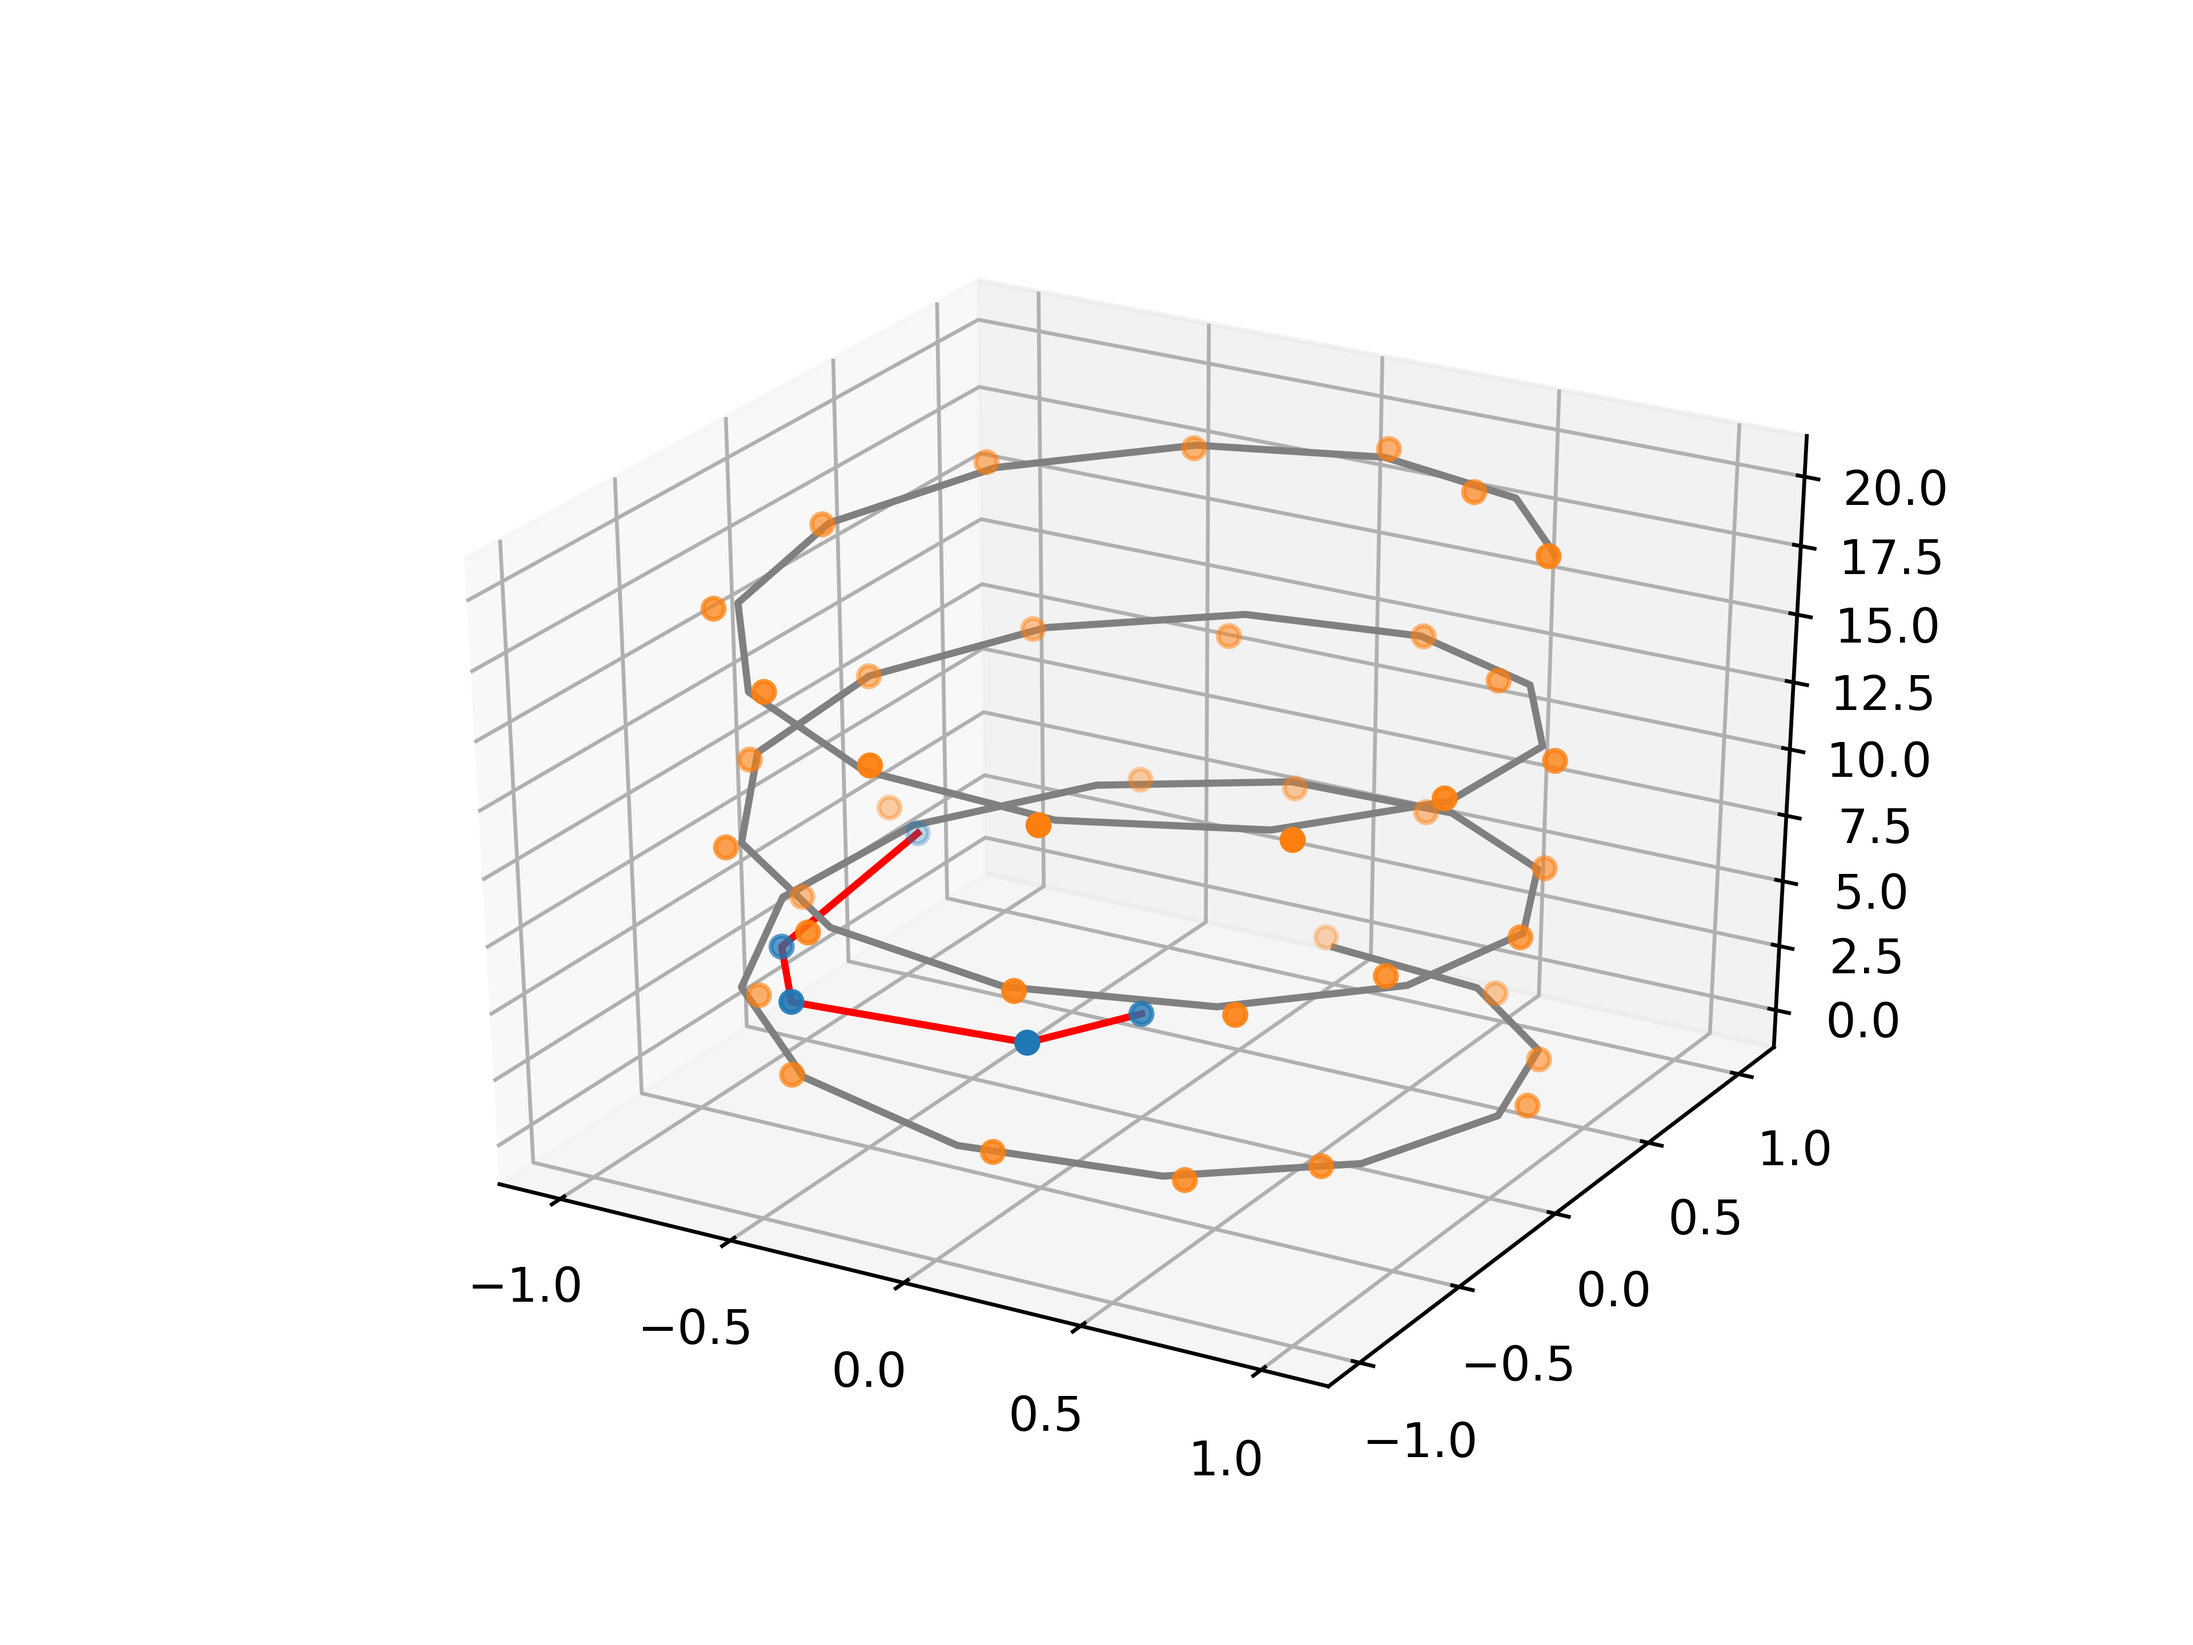
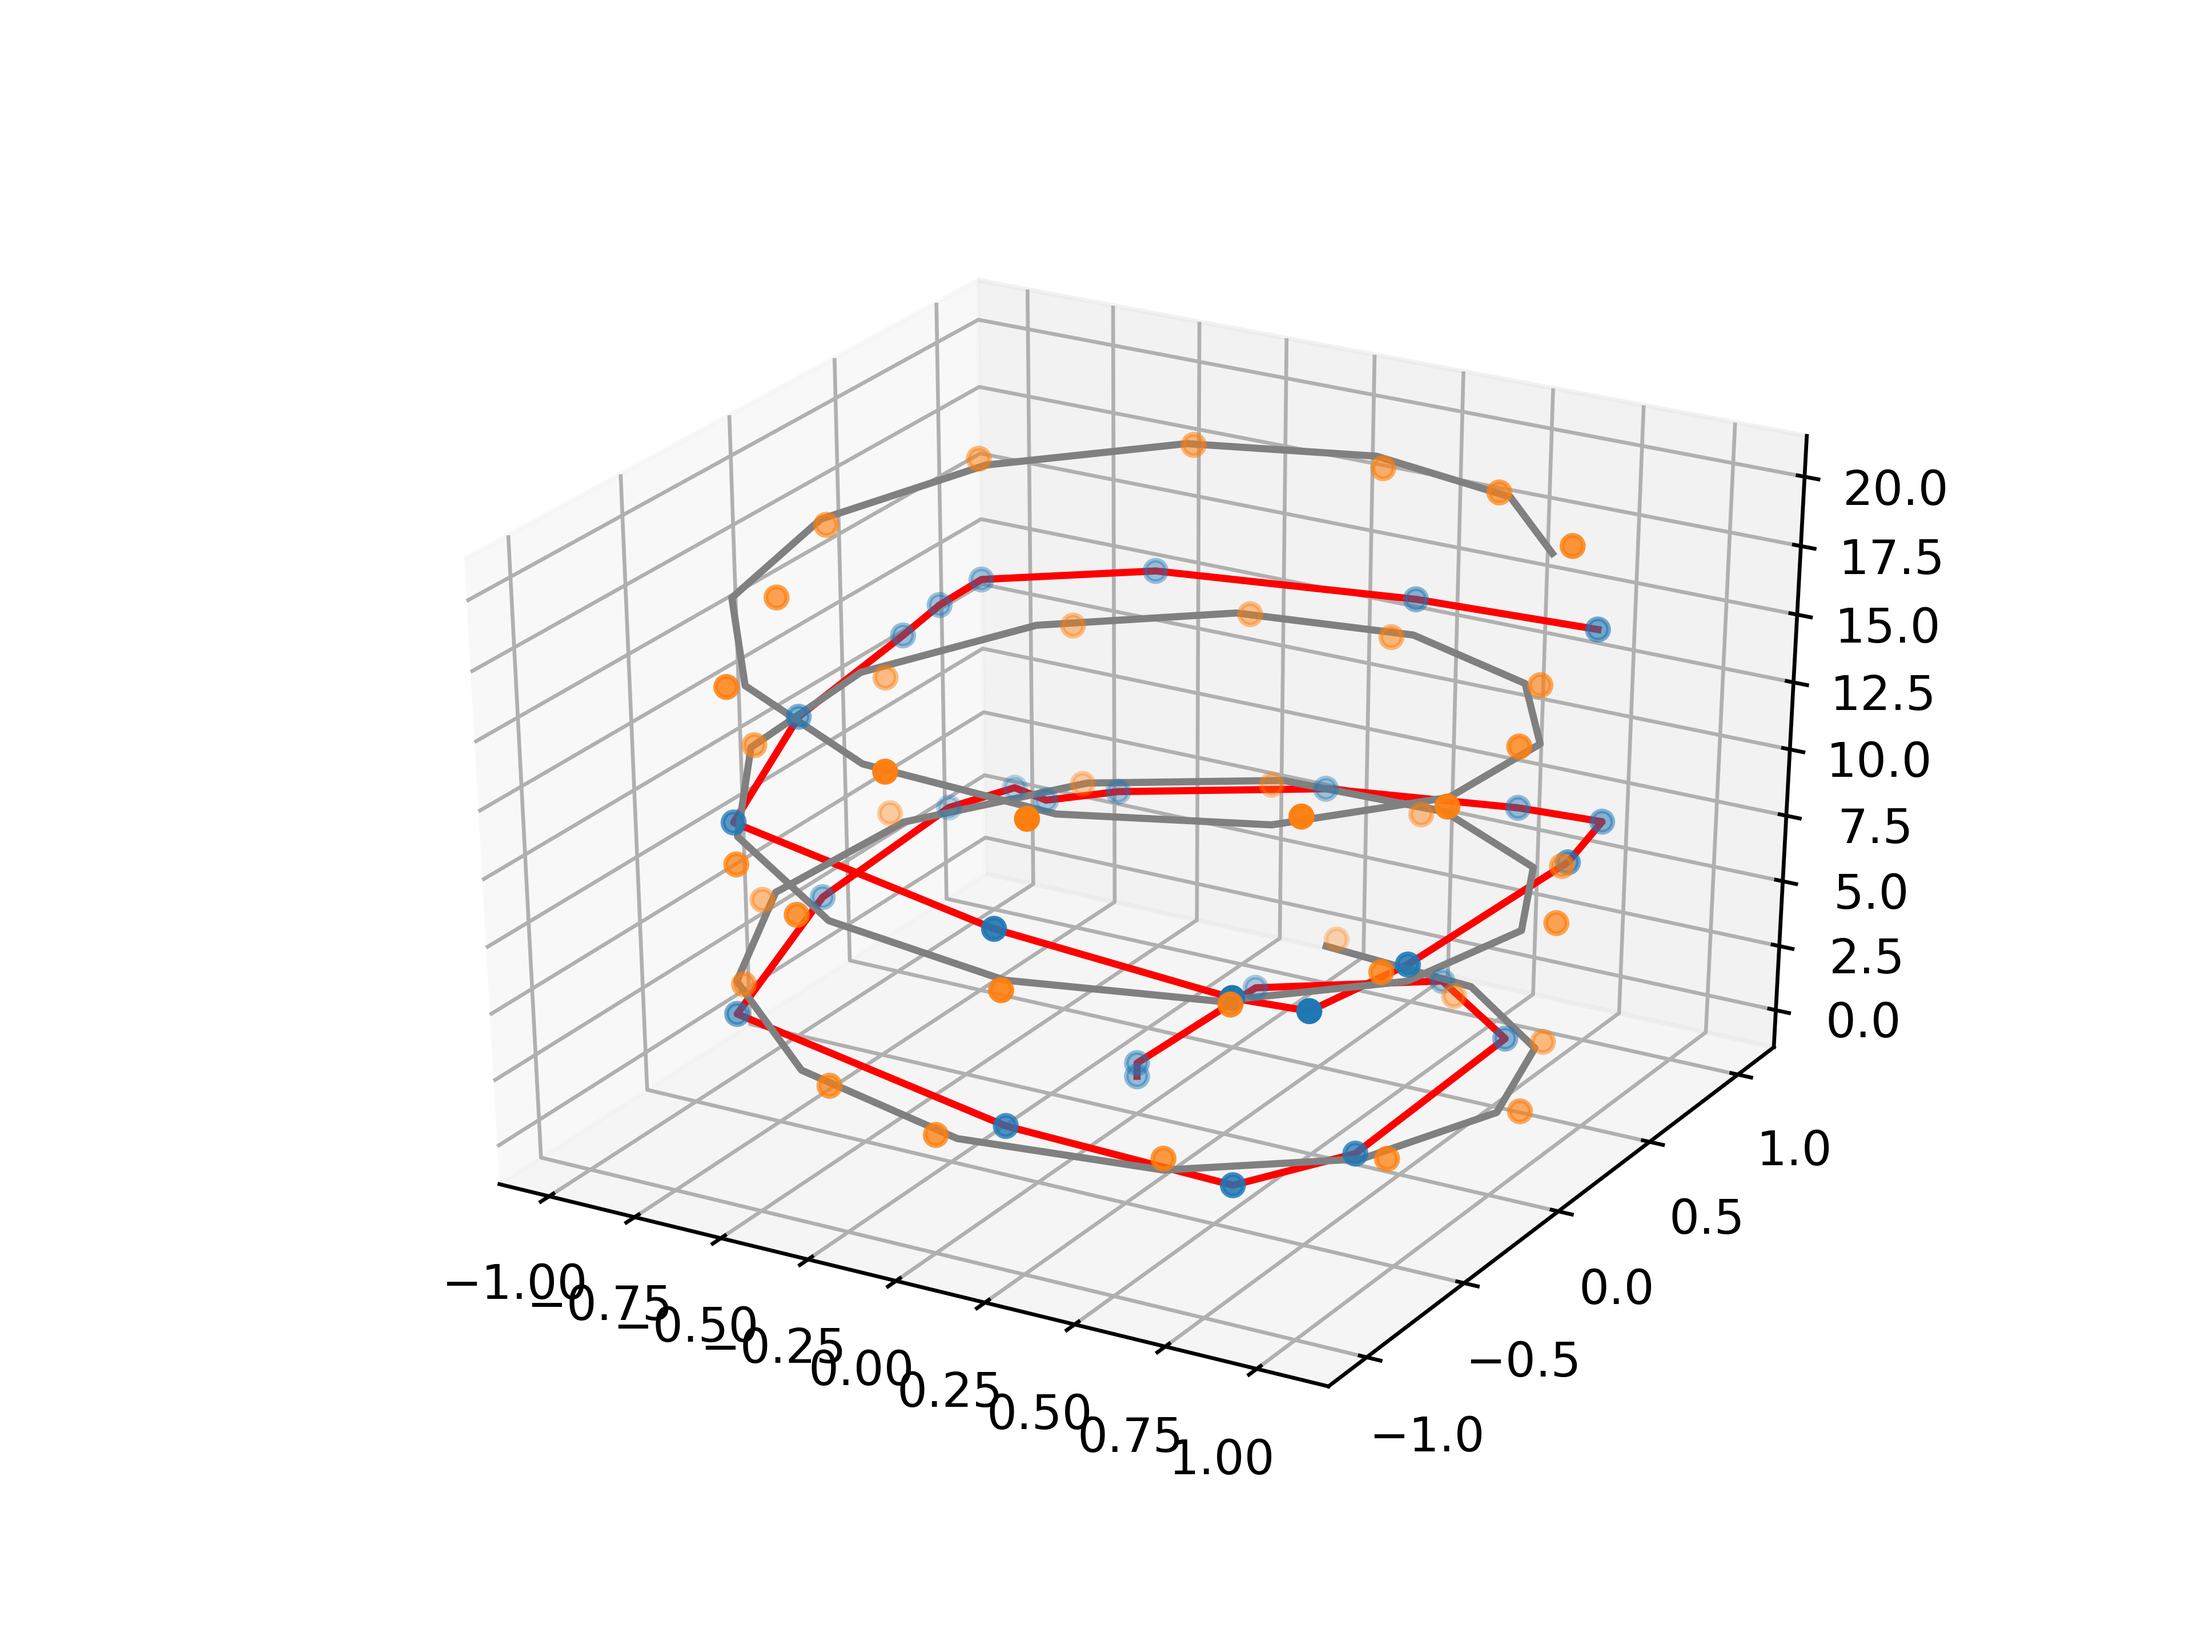
Created New Crossbar GRU Class

diff --git a/utils/spiral_generator.py b/utils/spiral_generator.py
@@ -1,6 +1,7 @@
 
 import torch
 
+import random
 import numpy as np
 import matplotlib.pyplot as plt
 
@@ -17,6 +18,7 @@ class Epoch_Spiral_Generator():
         self.train_window = train_window
         self.dimension = dimension
 
+        # Generate spiral
         self.x = torch.linspace(0, depth, n_pts).reshape(1, -1)
 
         self.y_x = (torch.sin(self.x) + 0.05 * np.random.randn(n_pts)).float()
@@ -28,17 +30,32 @@ class Epoch_Spiral_Generator():
         self.true_x = torch.sin(self.true_z).float()
         self.true_y = torch.cos(self.true_z).float()
 
-        self.data = [((self.y[:, i:i+train_window].reshape(-1, dimension, 1), self.x[:, i:i+train_window].reshape(-1, 1, 1)), (self.y[:, i+train_window:i+train_window+5].reshape(dimension, -1))) for i in range(self.y.size(1) - train_window)]
+        self.data = [((self.y[:, i:i+train_window].reshape(-1, dimension, 1), self.x[:, i:i+train_window].reshape(-1, 1, 1)), (self.y[:, i+train_window:i+train_window+10].reshape(dimension, -1))) for i in range(self.y.size(1) - train_window)]
         
         self.train_data = self.data[:cutoff]
         self.test_start = self.data[0]
+        self.test_data = [((self.y[:, i:i+30].reshape(-1, dimension, 1), self.x[:, i:i+30].reshape(-1, 1, 1)), (self.y[:, i+30:i+31].reshape(dimension, -1))) for i in range(self.y.size(1) - 30)]
 
-    def plot(self):
+class Stochastic_Spiral_Generator():
 
-        ax = plt.axes(projection='3d')
-        ax.plot3D(self.data[0][0, :].squeeze(), self.data[1, :].squeeze(), self.x, 'red')
+    def __init__(self, n_pts, cutoff, depth, train_window, dimension):
 
-        plt.show()
+        # Store instance variables
+        self.n_pts = n_pts
+        self.cutoff = cutoff
+        self.depth = depth
+        self.train_window = train_window
+        self.dimension = dimension
+
+        # Generate spiral
+        self.x = torch.linspace(0, depth, n_pts).reshape(1, -1)
+
+        self.y_x = (torch.sin(self.x) + 0.2 * np.random.randn(n_pts)).float()
+        self.y_y = (torch.cos(self.x) + 0.2 * np.random.randn(n_pts)).float()
+
+        self.y = torch.cat((self.y_x, self.y_y), axis=0)
+        
+        self.data = [((self.y[:, i:i+train_window].reshape(-1, dimension, 1), self.x[:, i:i+train_window].reshape(-1, 1, 1)), (self.y[:, i+train_window:i+train_window+10].reshape(dimension, -1))) for i in range(self.y.size(1) - train_window)]
 
 class Regular_Spiral_Generator():
 

diff --git a/fig6.py b/fig6.py
@@ -14,6 +14,7 @@ from torchdiffeq import odeint
 from crossbar.crossbar import crossbar
 
 from utils.spiral_generator import Epoch_Spiral_Generator
+from utils.spiral_generator import Stochastic_Spiral_Generator
 from utils.spiral_generator import Regular_Spiral_Generator
 
 from networks.ode import ODE_Func as ODE_Net
@@ -28,7 +29,7 @@ from networks.latent_ode import train as ode_rnn_test_train
 from networks.lstm_rnn import LSTM_RNN as LSTM_RNN
 from networks.lstm_rnn import train as lstm_train
 
-# Device parameters for convenience        
+# Device parameters for convenience     
 device_params = {"Vdd": 0.2,
                  "r_wl": 20,
                  "r_bl": 20,
@@ -57,17 +58,28 @@ device_params = {"Vdd": 0.2,
 # plt.savefig('./output/ground_truth.png', dpi=600, transparent=True)
 
 # 40, 10, 20, 10, 2
-data_gen = Epoch_Spiral_Generator(40, 20, 20, 5, 2)
+data_gen = Epoch_Spiral_Generator(40, 20, 20, 10, 2)
+data_gen_stoch = Stochastic_Spiral_Generator(40, 20, 20, 10, 2)
+
+ax = plt.axes(projection='3d')
+
+print("x: ", data_gen_stoch.y_x.size())
+print("y: ", data_gen_stoch.y_y.size())
+print("z: ", data_gen_stoch.x.size())
+
+ax.plot3D(data_gen_stoch.y_x.squeeze(), data_gen_stoch.y_y.squeeze(), data_gen_stoch.x.squeeze(), 'gray')
+# ax.scatter3D(data_gen_stoch.data[0][0].squeeze(), data_gen_stoch.data[1].squeeze(), data_gen_stoch.x.squeeze(), 'gray')
+
 
 # Build and train models
 
-epochs = 20
+epochs = 25
 
 # ode_rnn = ODE_RNN_Test(2, 6, 2, device_params)
 # losses_ode_rnn, output_ode_rnn = ode_rnn_test_train(ode_rnn, data_gen, epochs)
 
-ode_rnn = ODE_RNN(2, 6, 2, device_params)
-losses_ode_rnn, output_ode_rnn = ode_rnn_train(ode_rnn, data_gen, epochs)
+# ode_rnn = ODE_RNN(2, 6, 2, device_params)
+# losses_ode_rnn, output_ode_rnn = ode_rnn_train(ode_rnn, data_gen, epochs)
 
 # lstm_rnn = LSTM_RNN(2, 6, 2, device_params)
 # output_lstm = lstm_train(lstm_rnn, data_gen, 100)
@@ -82,9 +94,9 @@ losses_ode_rnn, output_ode_rnn = ode_rnn_train(ode_rnn, data_gen, epochs)
 # plt.setup(output_lstm)
 
 # Plot loss history
-fig1, ax_loss = plt.subplots()
-fig1.suptitle('ODE-RNN Error')
+# fig1, ax_loss = plt.subplots()
+# fig1.suptitle('ODE-RNN Error')
 
-ax_loss.plot(list(range(epochs)), losses_ode_rnn, linewidth=1, marker = 's', color='c')
+# ax_loss.plot(list(range(epochs)), losses_ode_rnn, linewidth=1, marker = 's', color='c')
 
 plt.show()

diff --git a/networks/ode_rnn.py b/networks/ode_rnn.py
@@ -131,26 +131,33 @@ def train(model, data_gen, epochs):
         print('Epoch {:04d} | Total Loss {:.6f}'.format(epoch, loss_history[epoch]))
 
     # Test
-    seq = data_gen.test_start[0][0]
-    t = data_gen.test_start[0][1]
-    num_predict = 5
+    # seq = data_gen.test_start[0][0]
+    seq = data_gen.test_data[0][0][0]
+    print("seq: ", seq.size())
+    print(seq)
+    #t = data_gen.test_start[0][1]
+    times = data_gen.test_data[0][0][1]
+    num_predict = 15
     length = num_predict
 
-    dt = torch.sum(t[1:] - t[0:-1]) / (len(t) - 1)
+    # dt = torch.sum(t[1:] - t[0:-1]) / (len(t) - 1)
     output = []
-    all_t = []
+    # all_t = []
 
     # model.use_cb(True)
 
-    for i in range(num_predict):
-        all_t.append(t[-1].unsqueeze(0) + dt.unsqueeze(0))
-        t = torch.cat((t[1:], t[-1].unsqueeze(0) + dt.unsqueeze(0)), axis=0)
+    # for i in range(num_predict):
+    #     all_t.append(t[-1].unsqueeze(0) + dt.unsqueeze(0))
+    #     t = torch.cat((t[1:], t[-1].unsqueeze(0) + dt.unsqueeze(0)), axis=0)
     
-    times = torch.cat(all_t, axis=0)
+    # times = torch.cat(all_t, axis=0)
+
+    # TODO: make seq same length as times (30)
 
     with torch.no_grad():
         prediction = model(times, seq)
         print("pred2: ", prediction.size())
+        print(prediction)
         output.append(prediction)
     
     output = torch.cat(output, axis=0)

diff --git a/utils/rnn_cell.py b/utils/rnn_cell.py
@@ -1,0 +1,29 @@
+
+import torch
+import torch.nn as nn
+
+from utils.linear import Linear
+from crossbar import crossbar
+
+class GRU_Cell(nn.Module):
+
+    def __init__(self, io_layer_size, hidden_layer_size, gate_out_size):
+
+        super(GRU_Cell, self).__init__()
+
+        # Update gate
+        self.update_lin1 = Linear(io_layer_size + 1, hidden_layer_size)
+        self.update_lin2 = Linear(hidden_layer_size, gate_out_size)
+
+        # Reset gate
+        self.reset_lin1 = Linear(io_layer_size + 1, hidden_layer_size)
+        self.reset_lin2 = Linear(hidden_layer_size, gate_out_size)
+
+        # New state gate
+        self.nstate_lin1 = Linear(io_layer_size + 1, hidden_layer_size)
+        self.nstate_lin2 = Linear(hidden_layer_size, io_layer_size)
+
+        self.tanh = nn.Tanh()
+        self.sigmoid = nn.Sigmoid()
+
+        
